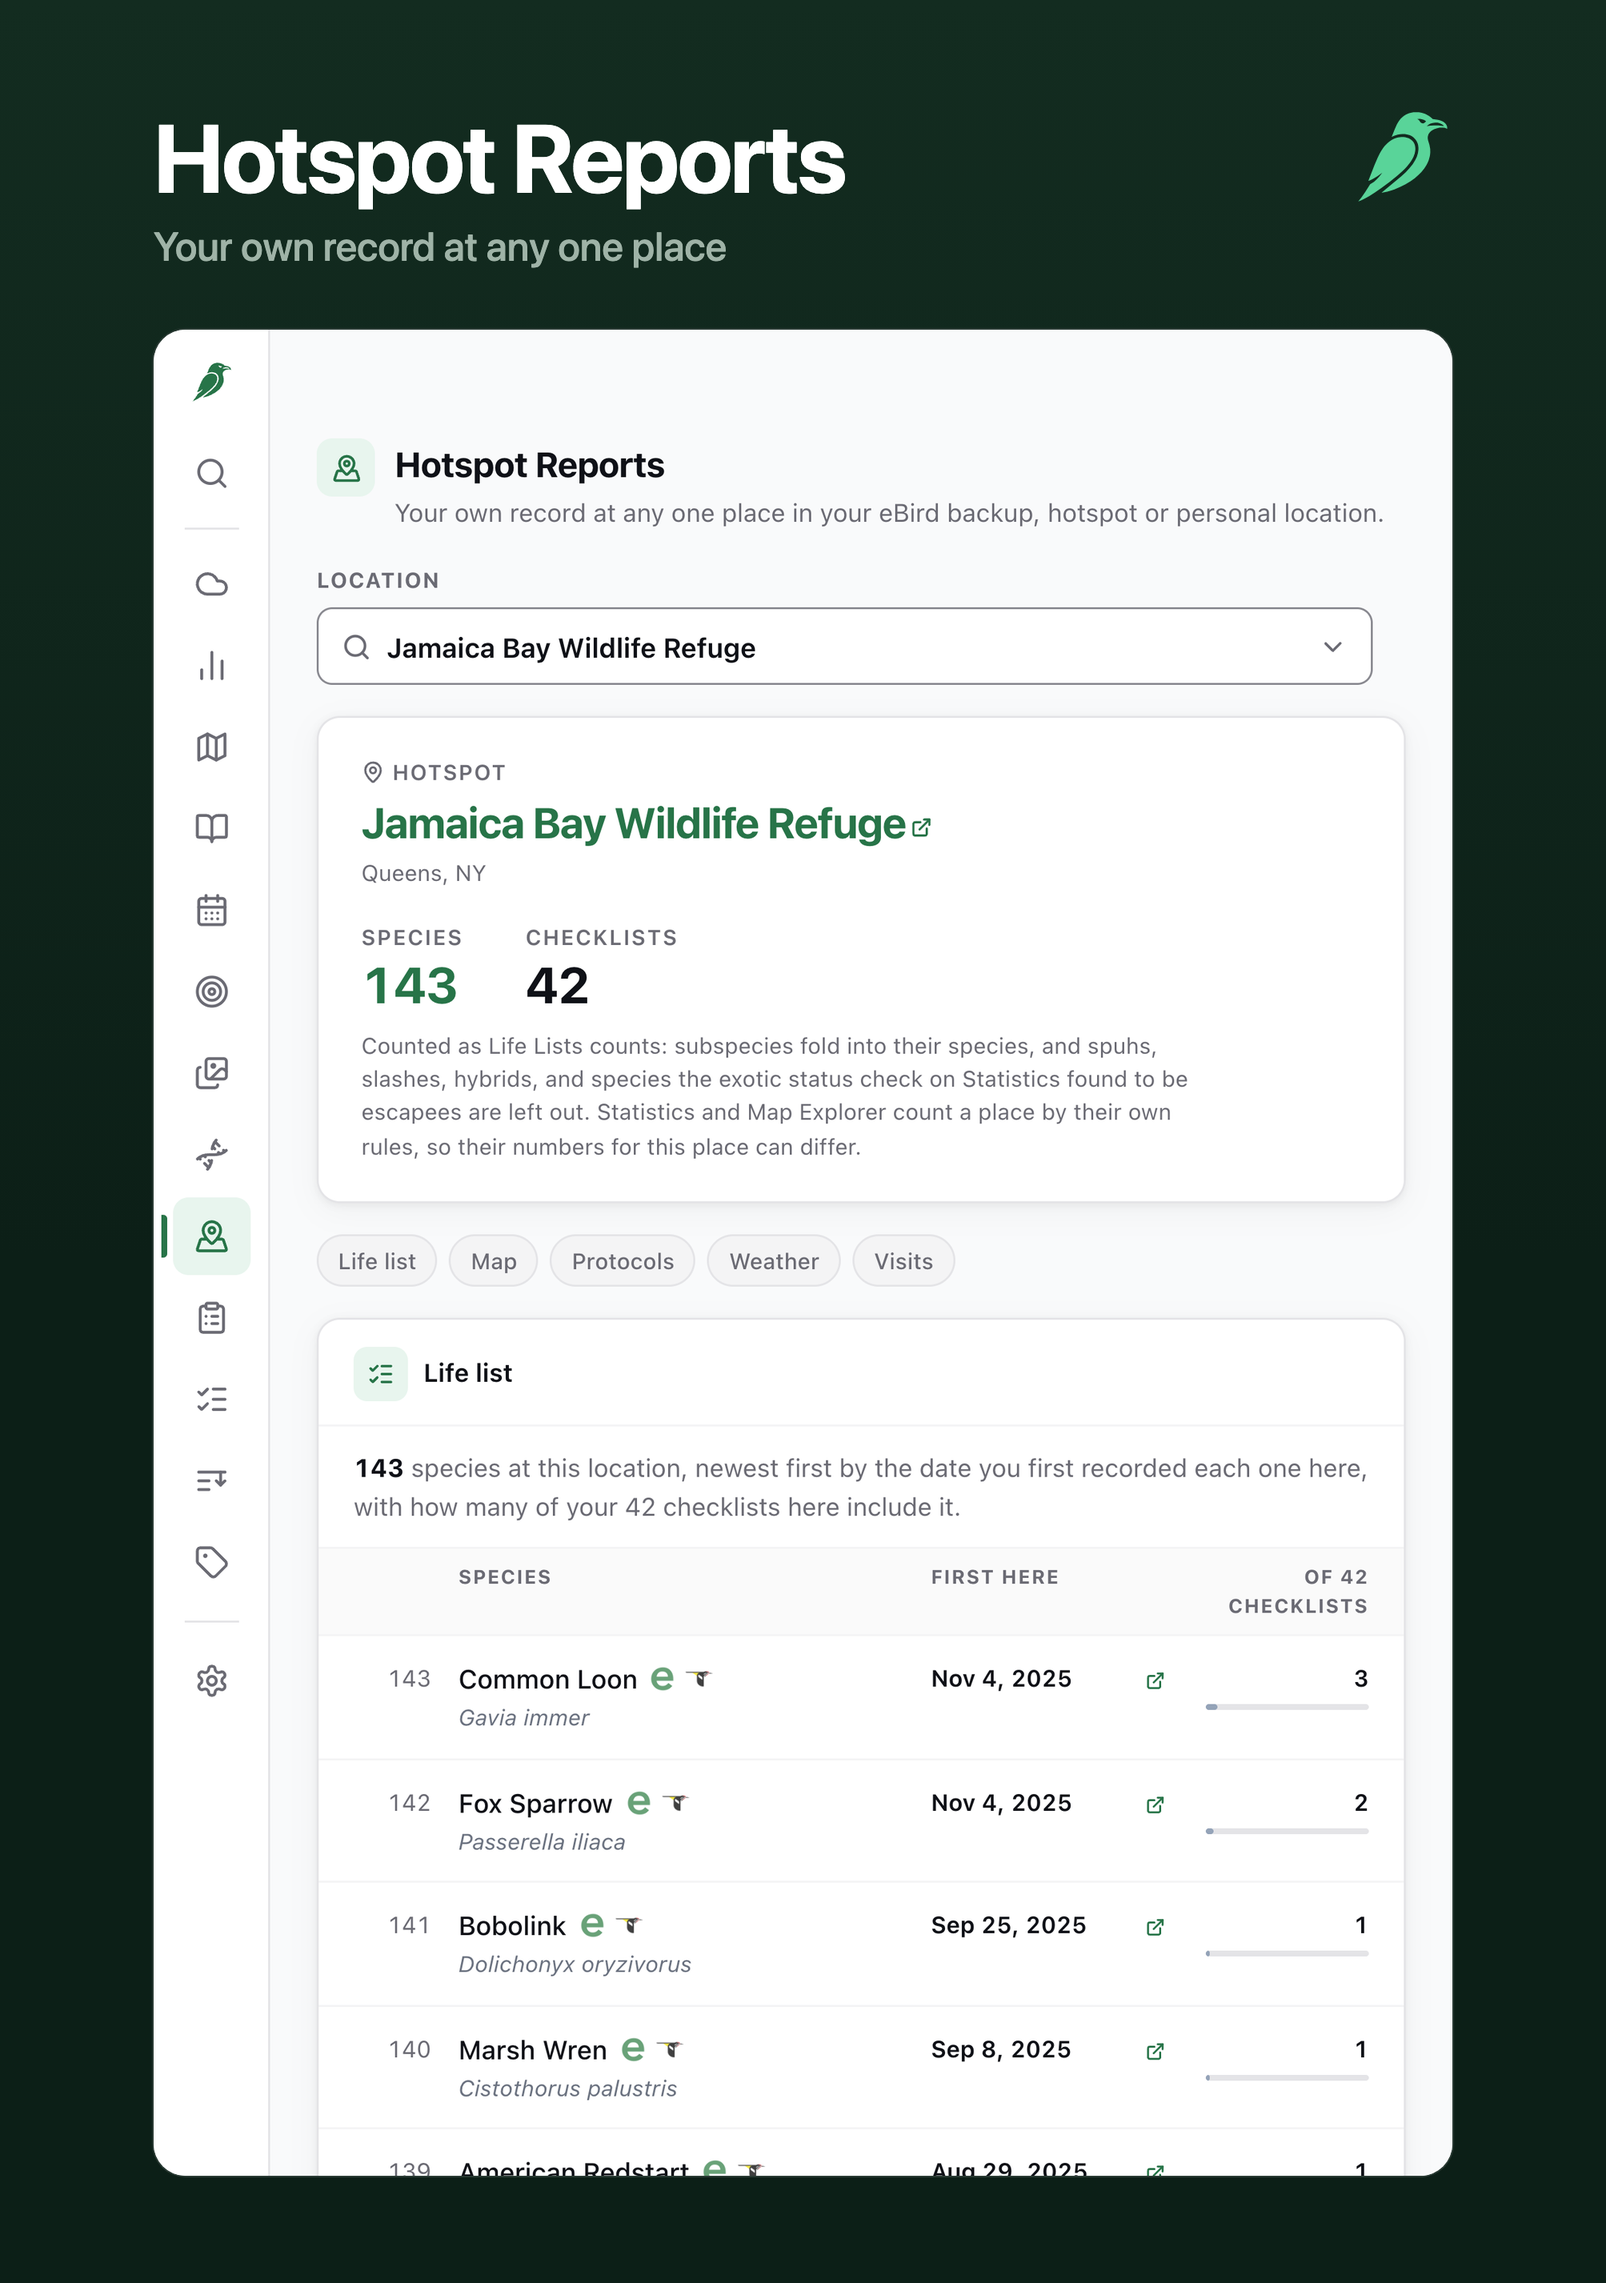
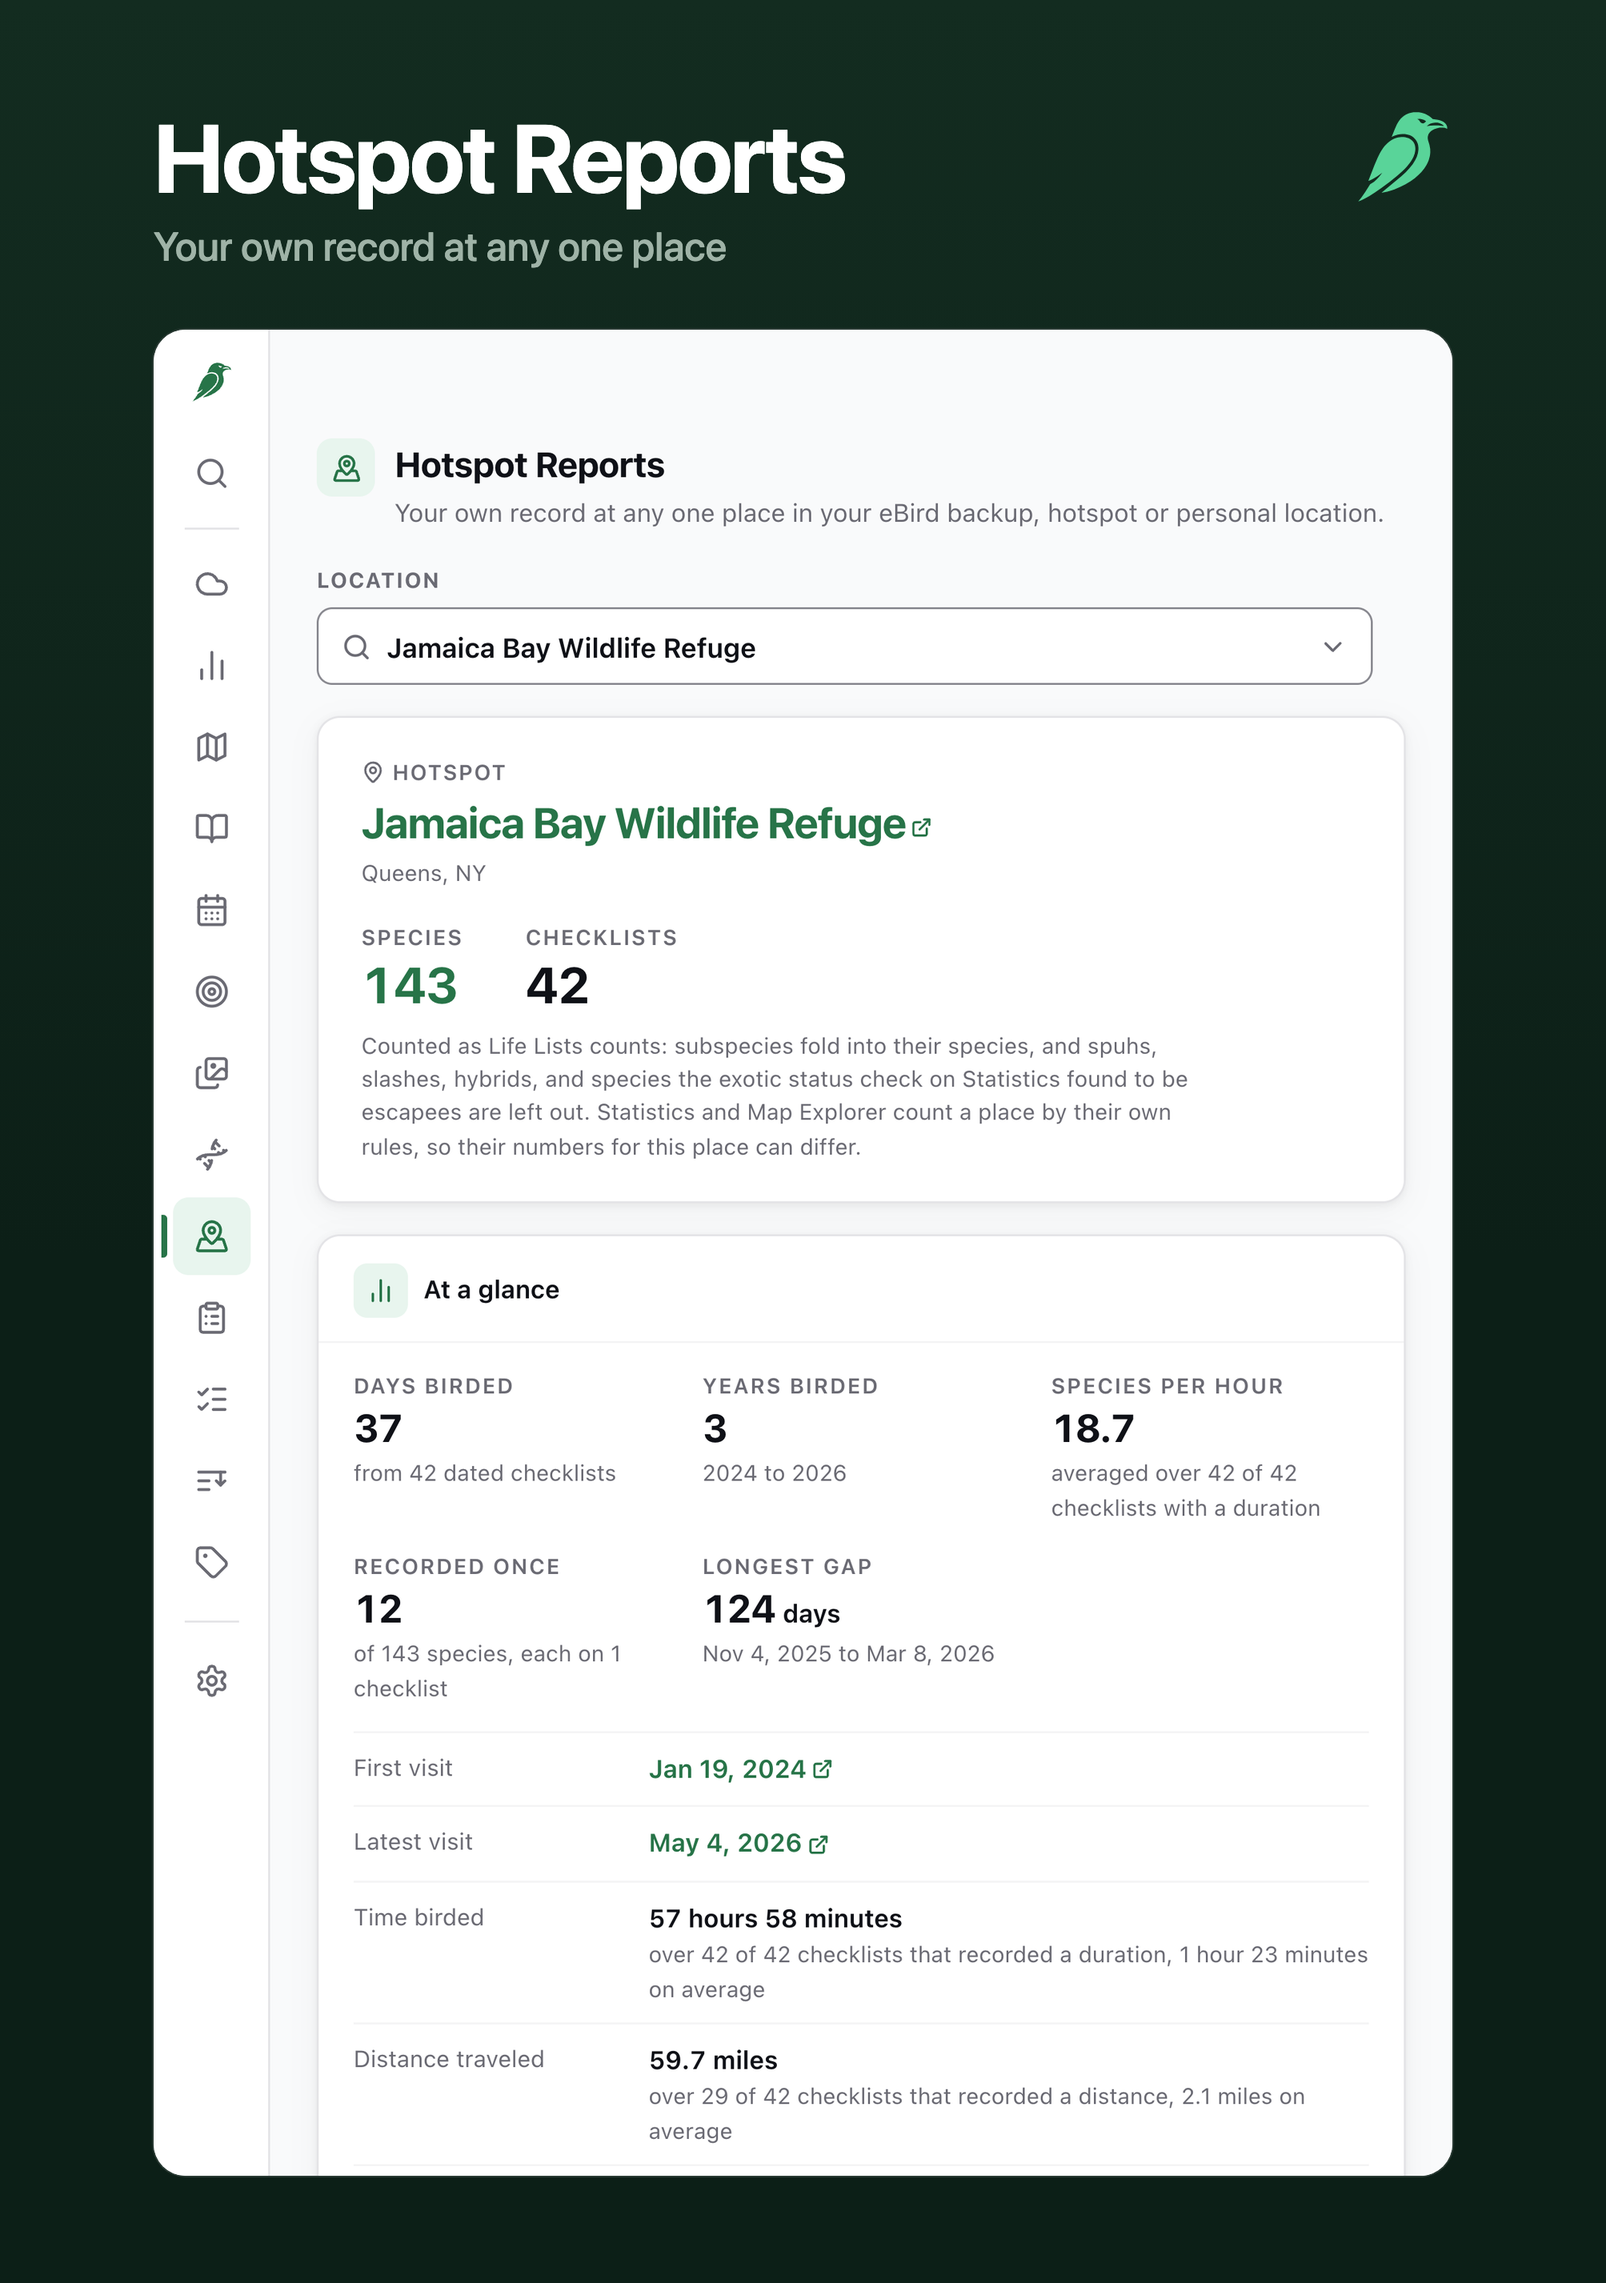
docs(hotspot-reports): the recaptured Hotspot Reports frames and the website alt text, on the user's yes
Approved by the user on 2026-11-13 (decisions.md D-15 and D-16): the three App
Store frame 7 images, kept in each set and replaced ("Keep it and update it"),
the website's hotspot-reports.webp ("Frame yes"), and its alt text, written
exactly as approved: "The Hotspot Reports tab showing one hotspot's totals and
an at a glance summary, above its map and life list."

All four were regenerated from the synthetic demo data in a scratch copy of
the tree (no key, no eBird request; the hotspot lookups answered in the
browser), with the capture tools' own jobs; recomposing every family left
frames 01 to 06 byte-identical. The three raws travel with their frames, and
composed-frames-checksums.{json,txt} carry the new md5, sha256 and size.

hotspotReportsSurfacesPublishedClaims.test.ts reads 1.0.71's held AFTER block
with the approved alt in place of the 1.0.71 one (a SUPERSEDED entry naming
D-16), and requires the old alt gone and the new one present once; mutation-
checked red for a capitalized alt, an entry that matches nothing, and the
replacement not applied.

diff --git a/frontend/src/lib/hotspotReportsSurfacesPublishedClaims.test.ts b/frontend/src/lib/hotspotReportsSurfacesPublishedClaims.test.ts
@@ -82,6 +82,26 @@ function pairs(surface: Surface): { n: number; before: string; after: string }[]
 
 const count = (hay: string, needle: string) => hay.split(needle).length - 1
 
+/** Later approved edits to text one of the pairs above wrote. The held blocks
+ *  stay the record of what 1.0.71 wrote, so a later release names its own change
+ *  here rather than rewriting them, and the applied-state row reads each AFTER
+ *  block with these replacements made. Each `was` must occur exactly once in its
+ *  surface's AFTER blocks, so an entry cannot quietly match nothing. */
+const SUPERSEDED: readonly { surface: Surface; was: string; now: string; by: string }[] = [
+  {
+    surface: 'website',
+    was: `alt="The Hotspot Reports tab showing one hotspot's report: its name and kind, its species and checklist totals with the counting rule beneath them, its life list newest first with how many of the place's checklists include each species, a map with one pin, and its checklists by eBird protocol."`,
+    now: `alt="The Hotspot Reports tab showing one hotspot's totals and an at a glance summary, above its map and life list."`,
+    by: 'hotspot-report-order-and-stats, 1.0.72: the recaptured frame\'s alt text, approved by the user on 2026-11-13 (decisions.md D-16)',
+  },
+]
+
+function superseded(surface: Surface, after: string): string {
+  let text = after
+  for (const e of SUPERSEDED.filter(x => x.surface === surface)) text = text.replace(e.was, e.now)
+  return text
+}
+
 /** The surface as it will read once the copy is applied: the real file after
  *  the yes, the held pairs applied in memory before it. */
 function published(surface: Surface): string {
@@ -172,10 +192,16 @@ describe('the held copy for the Hotspot Reports tab', () => {
     }
   })
 
-  it.runIf(APPLIED)('once applied, every AFTER block occurs exactly once in its published file', () => {
+  it.runIf(APPLIED)('once applied, every AFTER block occurs exactly once in its published file, with later approved edits made', () => {
     for (const s of Object.keys(SURFACES) as Surface[]) {
       const real = read(SURFACES[s])
-      for (const p of pairs(s)) expect(count(real, p.after), `${s} ${p.n}`).toBe(1)
+      for (const p of pairs(s)) expect(count(real, superseded(s, p.after)), `${s} ${p.n}`).toBe(1)
+    }
+    for (const e of SUPERSEDED) {
+      const afters = pairs(e.surface).map(p => p.after).join('')
+      expect(count(afters, e.was), `"${e.by}" replaces text one ${e.surface} AFTER block holds once`).toBe(1)
+      expect(count(read(SURFACES[e.surface]), e.was), `the replaced ${e.surface} text is gone from the published file`).toBe(0)
+      expect(count(read(SURFACES[e.surface]), e.now), `the approved ${e.surface} text is in the published file once`).toBe(1)
     }
   })
 

diff --git a/website/index.html b/website/index.html
@@ -319,7 +319,7 @@
           </div>
           <figure class="feature-media shot-slot" data-shot="hotspot-reports">
             <img src="assets/shots/hotspot-reports.webp" width="1600" height="900"
-                 alt="The Hotspot Reports tab showing one hotspot's report: its name and kind, its species and checklist totals with the counting rule beneath them, its life list newest first with how many of the place's checklists include each species, a map with one pin, and its checklists by eBird protocol." loading="lazy" />
+                 alt="The Hotspot Reports tab showing one hotspot's totals and an at a glance summary, above its map and life list." loading="lazy" />
           </figure>
         </article>
 
